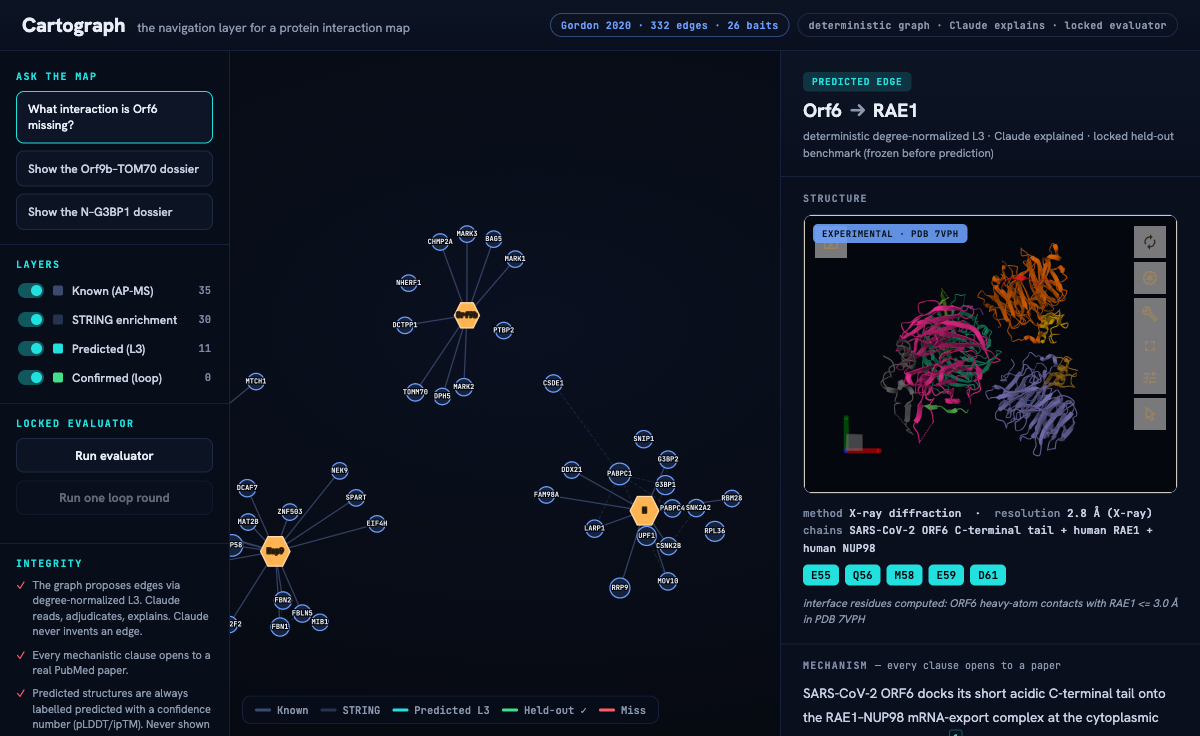
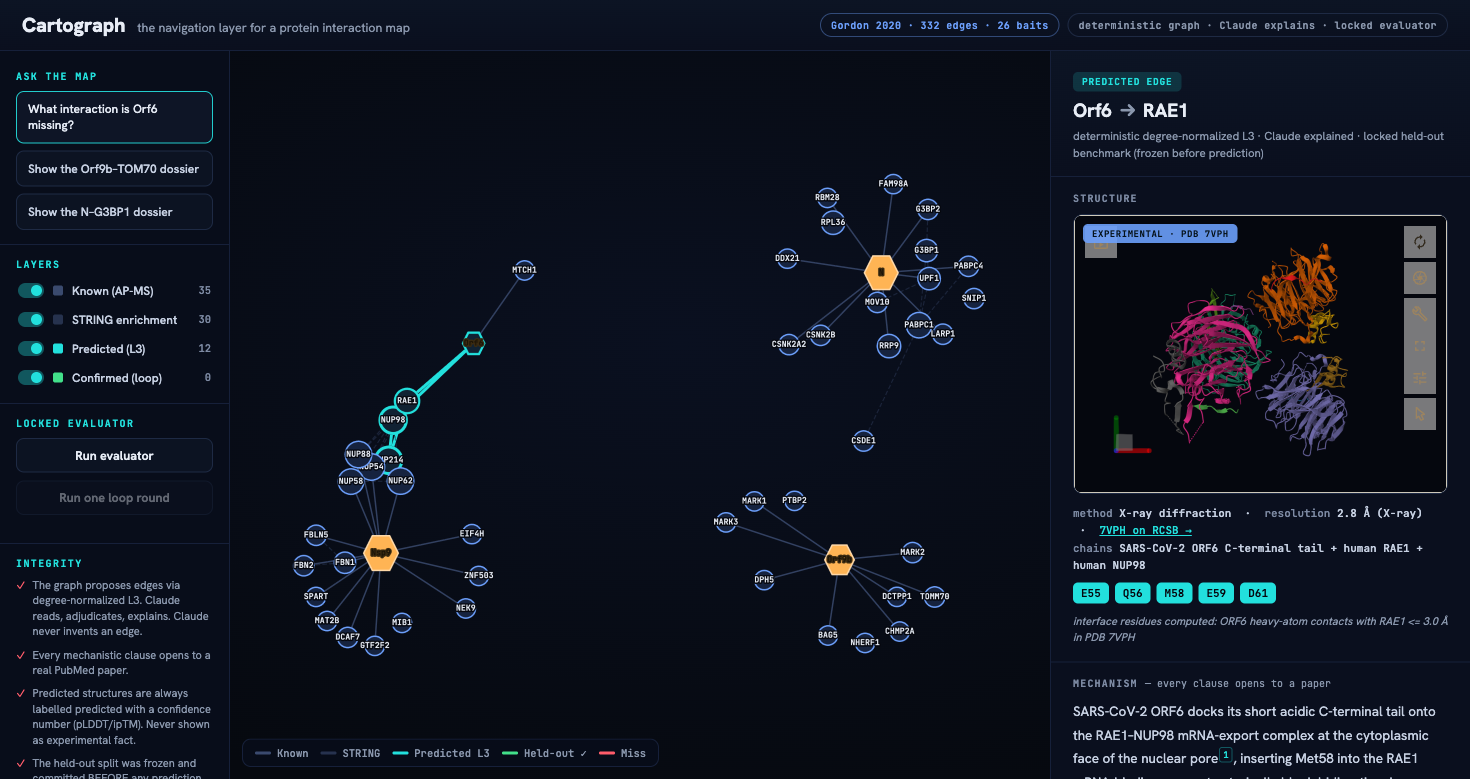
docs: final hero images (full length-3 path + in-map evaluator)

diff --git a/README.md b/README.md
@@ -29,6 +29,8 @@ The 3-minute path:
 4. **Locked evaluator** runs in-map: real held-out Gordon edges snap green, misses flash red, and the honest precision shows — **precision@20 = 45%, ROC-AUC = 0.845** on 57 real held-out edges.
 5. **One loop round**: confirm the recovered-true edges, fold them back, re-score the still-hidden edges — **precision@20 0.30 → 0.35** on the remainder.
 
+![the locked evaluator running in-map: real held-out Gordon edges snap green, precision computed live](docs/demo_evaluator.png)
+
 ## The honest headline numbers (computed, not illustrative)
 
 | metric | value | on |
